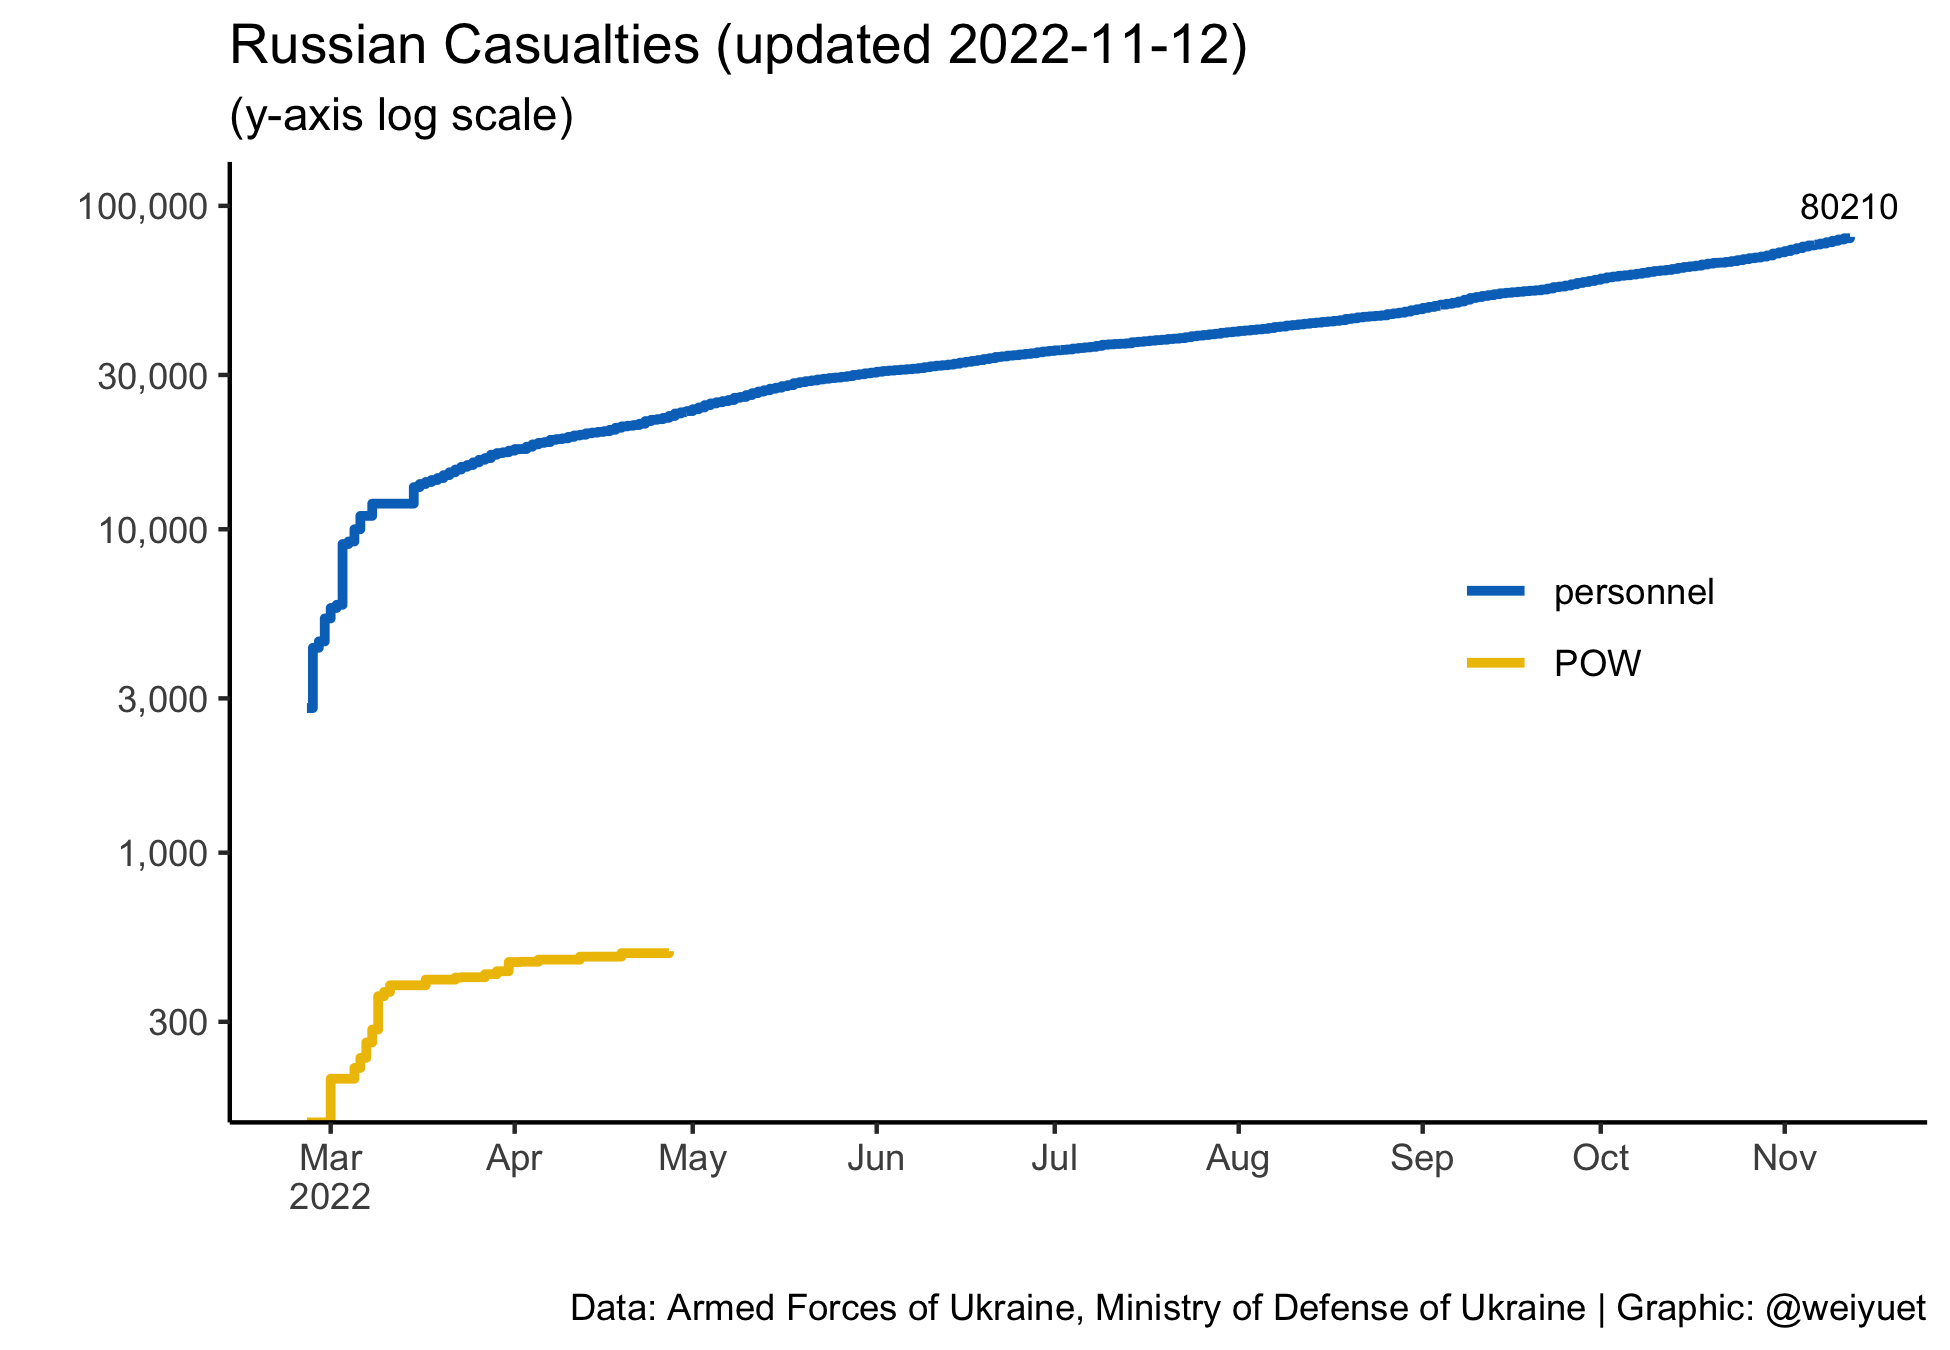
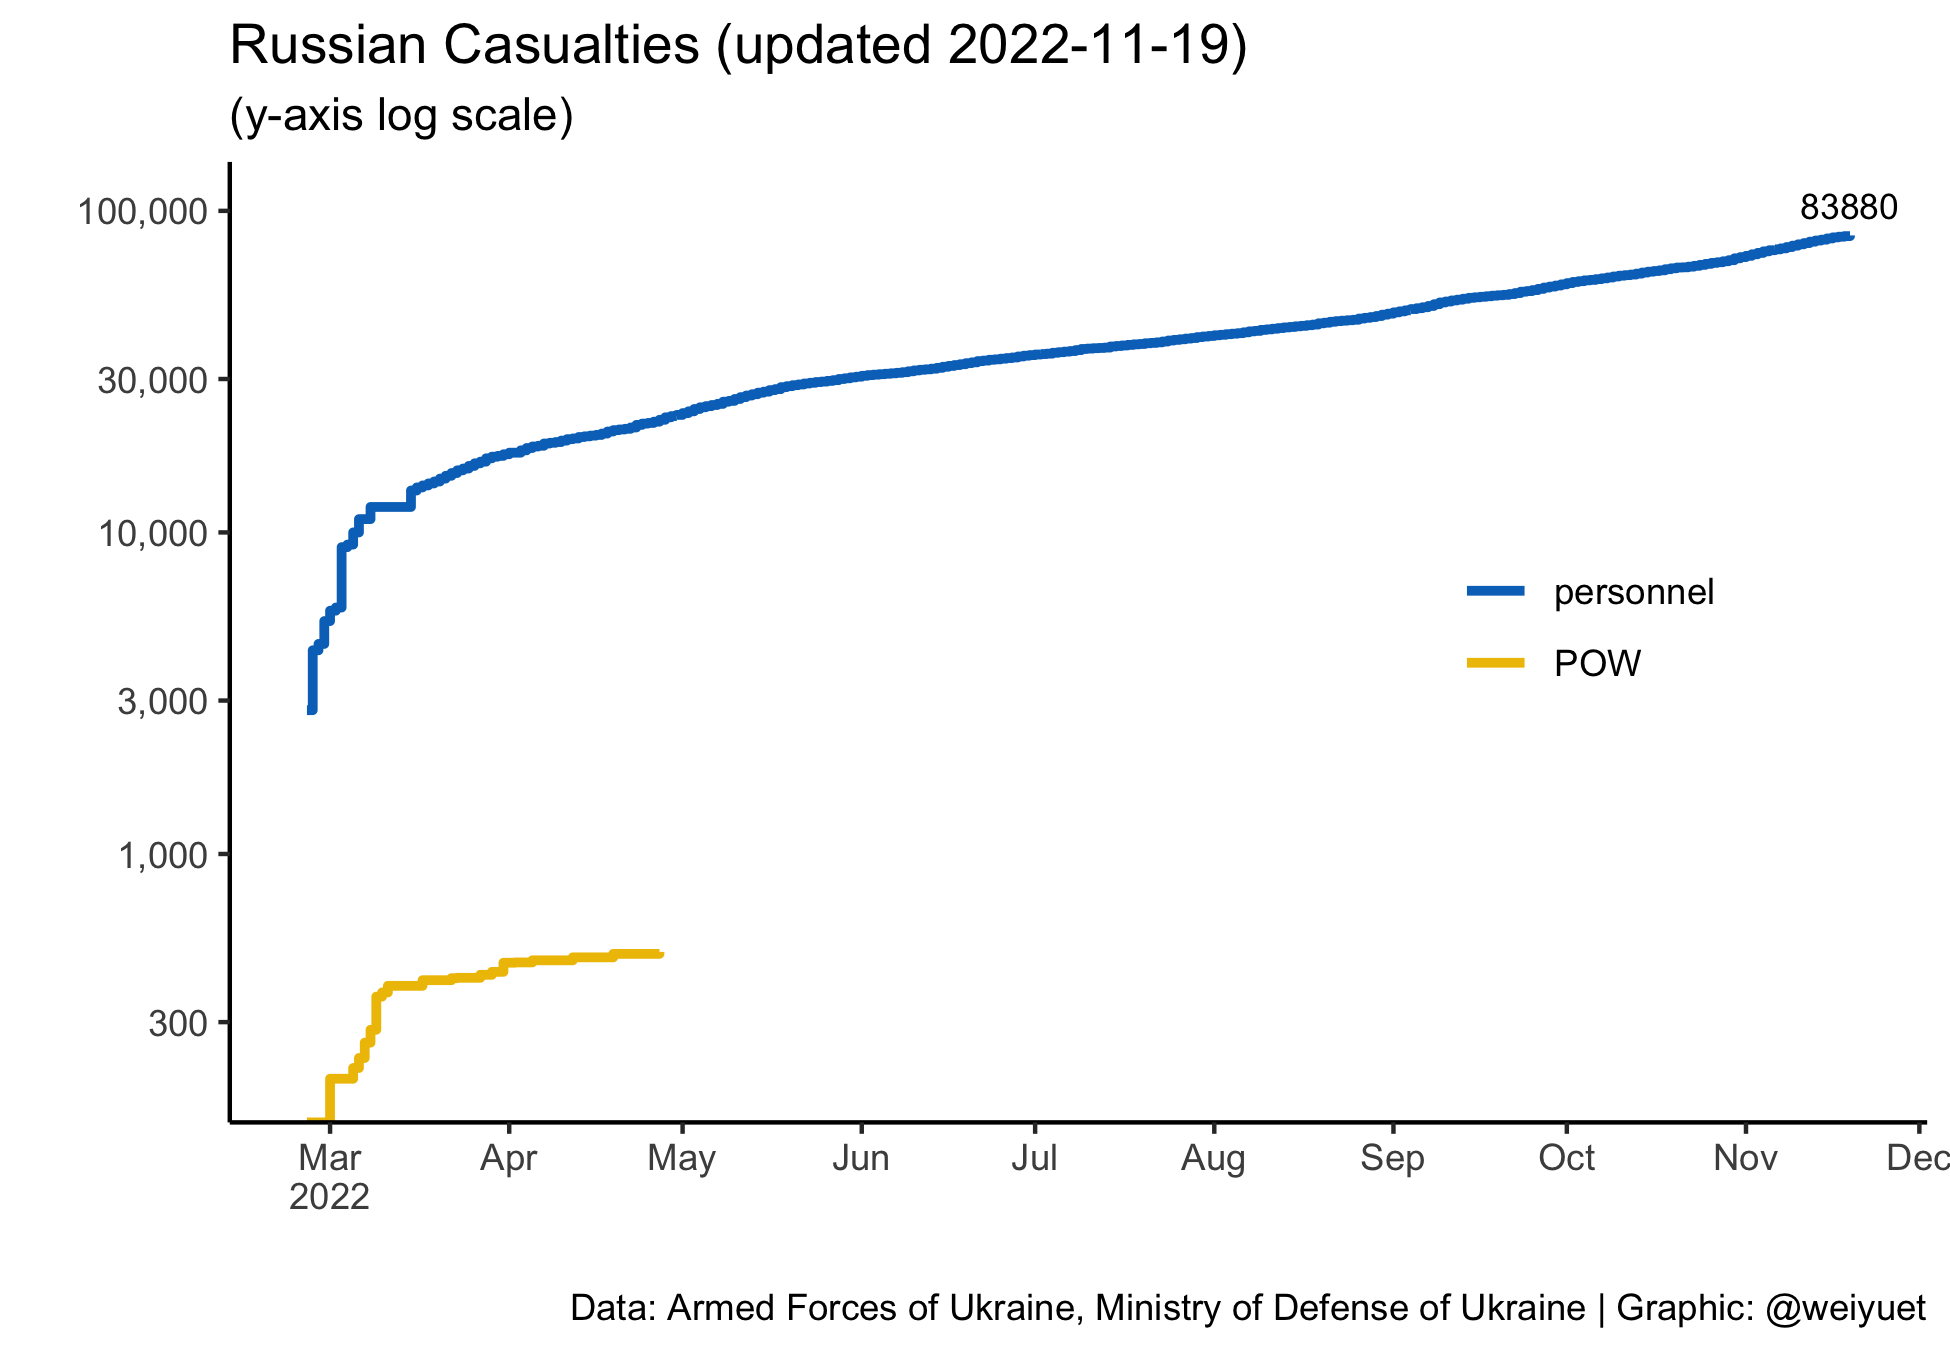
Updated 20 November

diff --git a/README.md b/README.md
@@ -6,7 +6,7 @@ Wong Wei Yuet 2022-05-26
 
   - War casualty data updated daily from [`Petro Ivanyuk's Kaggle`](https://www.kaggle.com/datasets/piterfm/2022-ukraine-russian-war). All data is official and put together by `Petro`
 
-Updated: 2022-11-12
+Updated: 2022-11-20
 
 ## Summary of Conflict
 
